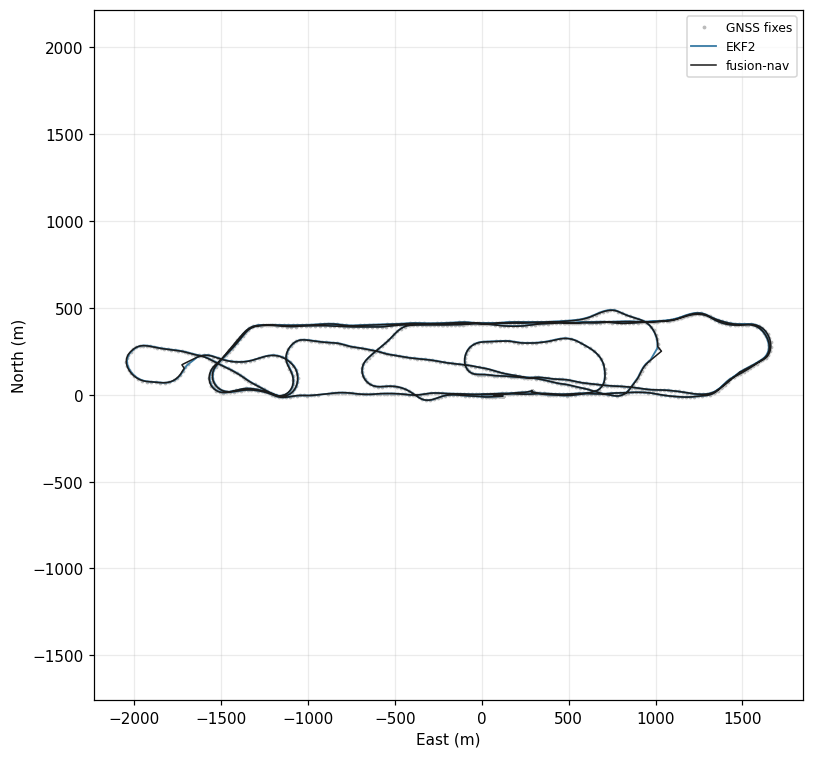
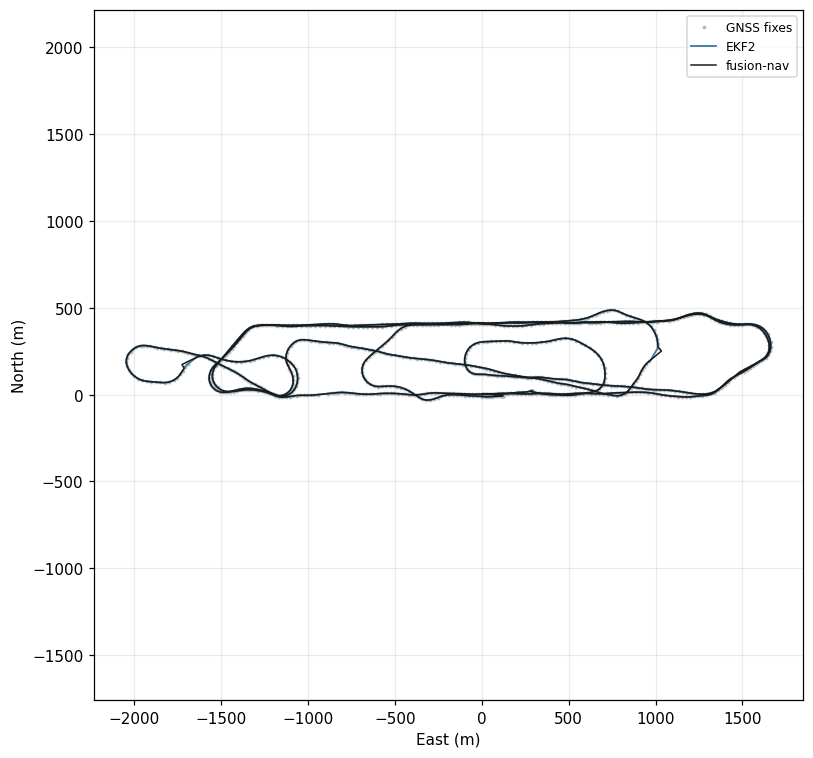
Validation pages: regenerate after EKF2's position is placed in the replay frame (#145)

diff --git a/validation/ekf2.md b/validation/ekf2.md
@@ -2,13 +2,13 @@
 # Agreement with EKF2
 
 **On real flights, does it agree with the estimator PX4 flies?** Mostly, and closely. On the log
-with the most precise receiver (RTK), velocity agrees to 0.04822
-m/s RMS north and tilt to 0.2420° RMS. Where the two differ,
-the log usually shows why: a receiver that overstates its accuracy, a hand launch this filter
-levels wrong, and a barometer the two filters trust differently. One offset has no explanation
-yet, and is marked as open.
+with the most precise receiver (RTK), position agrees to 0.1301 m
+RMS north, velocity to 0.04822 m/s RMS north and tilt to
+0.2420° RMS. Where the two differ, the log usually shows why: a
+receiver that overstates its accuracy, a hand launch this filter levels wrong, and a barometer
+the two filters trust differently.
 
-Generated by `tools/validation.sh` at `ab8cbe7`; every figure on this page is from that build, and `tools/validation.sh --check` re-derives them.
+Generated by `tools/validation.sh` at `ad4a739`; every figure on this page is from that build, and `tools/validation.sh --check` re-derives them.
 
 **EKF2 is not the truth.** Real flight logs carry no true trajectory, so every number here is a
 distance between two estimators fed the same sensor data. It measures agreement, never
@@ -34,39 +34,39 @@ Replayed `raw`:
 
 | run | `pos_n_rms` | `pos_e_rms` | `pos_d_rms` | `vel_n_rms` | `tilt_diff_rms` | `heading_diff_med` | `rej_s_gnss_pos` | `rej_s_gnss_pos_ekf2` |
 |---|---|---|---|---|---|---|---|---|
-| `3949f175/raw` | 0.1022 | 0.1083 | 0.2640 | 0.09179 | 0.5668 | 17.48 | 0.000 | 0.000 |
+| `3949f175/raw` | 0.06005 | 0.06123 | 0.2634 | 0.09179 | 0.5668 | 17.48 | 0.000 | 0.000 |
 | `f16771dd/raw` | none | none | none | 3.998 | 1.531 | 170.1 | none | 0.000 |
-| `a299e722/raw` | 4.756 | 16.71 | 2.453 | 1.003 | 3.341 | 1.026 | 7.002 | 0.000 |
+| `a299e722/raw` | 4.755 | 16.72 | 2.453 | 1.003 | 3.341 | 1.026 | 7.002 | 0.000 |
 | `7592c9b2/raw` | none | none | none | 0.5171 | 0.7510 | 0.4925 | none | 0.000 |
-| `2c42096b/raw` | 0.2964 | 0.2724 | 11.23 | 0.09171 | 0.3656 | 0.5747 | 0.000 | 0.000 |
-| `89a498ce/raw` | 4.665 | 1.753 | 0.6869 | 0.04822 | 0.2420 | 0.7947 | 0.000 | 0.000 |
-| `eb799954/raw` | 0.5670 | 0.7678 | 0.5788 | 0.1184 | 0.5109 | 5.240 | 0.000 | 0.000 |
-| `cd7e0001/raw` | 1.102 | 1.480 | 1.222 | 0.1017 | 0.3300 | 1.606 | 0.000 | 0.000 |
-| `285ee2e7/raw` | 0.4088 | 0.7683 | 1.584 | 0.1196 | 0.5291 | 1.467 | 2.996 | 0.000 |
-| `4b473e91/raw` | 1.111 | 1.805 | 0.6038 | 0.2962 | 0.6155 | 2.771 | 0.000 | 0.000 |
-| `7ce66f0d/raw` | 21.82 | 22.54 | 11.44 | 6.496 | 3.867 | 2.462 | 111.0 | 0.000 |
-| `093e806a/raw` | 1.556 | 1.640 | 0.5769 | 0.1657 | 0.4954 | 1.525 | 268.7 | 304.9 |
+| `2c42096b/raw` | 0.3043 | 0.2724 | 11.23 | 0.09171 | 0.3656 | 0.5747 | 0.000 | 0.000 |
+| `89a498ce/raw` | 0.1301 | 0.09685 | 0.1022 | 0.04822 | 0.2420 | 0.7947 | 0.000 | 0.000 |
+| `eb799954/raw` | 0.2128 | 0.1950 | 0.5784 | 0.1184 | 0.5109 | 5.240 | 0.000 | 0.000 |
+| `cd7e0001/raw` | 1.086 | 0.6992 | 1.218 | 0.1017 | 0.3300 | 1.606 | 0.000 | 0.000 |
+| `285ee2e7/raw` | 0.3774 | 0.7710 | 1.584 | 0.1196 | 0.5291 | 1.467 | 2.996 | 0.000 |
+| `4b473e91/raw` | 0.5283 | 0.6104 | 0.5601 | 0.2962 | 0.6155 | 2.771 | 0.000 | 0.000 |
+| `7ce66f0d/raw` | 21.83 | 22.53 | 4.049 | 6.496 | 3.867 | 2.462 | 111.0 | 0.000 |
+| `093e806a/raw` | 1.275 | 0.9918 | 0.5833 | 0.1657 | 0.4954 | 1.525 | 268.7 | 304.9 |
 
 Replayed `px4`:
 
 | run | `pos_n_rms` | `pos_e_rms` | `pos_d_rms` | `vel_n_rms` | `tilt_diff_rms` | `heading_diff_med` | `rej_s_gnss_pos` | `rej_s_gnss_pos_ekf2` |
 |---|---|---|---|---|---|---|---|---|
-| `3949f175/px4` | 0.1022 | 0.1083 | 0.2680 | 0.09181 | 0.5670 | 17.48 | 0.000 | 0.000 |
+| `3949f175/px4` | 0.06010 | 0.06124 | 0.2675 | 0.09181 | 0.5670 | 17.48 | 0.000 | 0.000 |
 | `f16771dd/px4` | none | none | none | 3.998 | 1.531 | 170.1 | none | 0.000 |
-| `a299e722/px4` | 0.4765 | 0.6620 | 1.266 | 0.3819 | 2.017 | 0.9112 | 0.000 | 0.000 |
+| `a299e722/px4` | 0.4825 | 0.6502 | 1.266 | 0.3819 | 2.017 | 0.9112 | 0.000 | 0.000 |
 | `7592c9b2/px4` | none | none | none | 0.5171 | 0.7510 | 0.4925 | none | 0.000 |
-| `2c42096b/px4` | 0.2948 | 0.2708 | 11.22 | 0.09172 | 0.2708 | 0.4350 | 0.000 | 0.000 |
-| `89a498ce/px4` | 4.655 | 1.757 | 1.056 | 0.04111 | 0.1799 | 0.6354 | 0.000 | 0.000 |
-| `eb799954/px4` | 0.5134 | 0.7159 | 1.063 | 0.1173 | 0.4167 | 5.269 | 0.000 | 0.000 |
-| `cd7e0001/px4` | 0.8681 | 1.380 | 1.152 | 0.09100 | 0.3325 | 1.910 | 0.000 | 0.000 |
-| `285ee2e7/px4` | 0.2446 | 0.3461 | 2.010 | 0.09052 | 0.3675 | 1.211 | 0.000 | 0.000 |
-| `4b473e91/px4` | 1.119 | 1.819 | 0.6861 | 0.2964 | 0.6449 | 3.176 | 0.000 | 0.000 |
-| `7ce66f0d/px4` | 19.84 | 21.94 | 10.86 | 6.043 | 3.193 | 2.196 | 111.0 | 0.000 |
-| `093e806a/px4` | 1.601 | 1.744 | 0.8200 | 0.1452 | 0.4592 | 1.575 | 27.13 | 304.9 |
+| `2c42096b/px4` | 0.3028 | 0.2708 | 11.22 | 0.09172 | 0.2708 | 0.4350 | 0.000 | 0.000 |
+| `89a498ce/px4` | 0.1467 | 0.1092 | 0.7905 | 0.04111 | 0.1799 | 0.6354 | 0.000 | 0.000 |
+| `eb799954/px4` | 0.1308 | 0.1049 | 1.061 | 0.1173 | 0.4167 | 5.269 | 0.000 | 0.000 |
+| `cd7e0001/px4` | 0.8099 | 0.4858 | 1.149 | 0.09100 | 0.3325 | 1.910 | 0.000 | 0.000 |
+| `285ee2e7/px4` | 0.2012 | 0.3446 | 2.013 | 0.09052 | 0.3675 | 1.211 | 0.000 | 0.000 |
+| `4b473e91/px4` | 0.5205 | 0.6034 | 0.6797 | 0.2964 | 0.6449 | 3.176 | 0.000 | 0.000 |
+| `7ce66f0d/px4` | 19.86 | 21.93 | 2.677 | 6.043 | 3.193 | 2.196 | 111.0 | 0.000 |
+| `093e806a/px4` | 1.328 | 1.052 | 0.8267 | 0.1452 | 0.4592 | 1.575 | 27.13 | 304.9 |
 
 Columns, each a difference between EKF2 and this filter:
-- `pos_n_rms`, `pos_e_rms` and `pos_d_rms`: position north, east and down, in metres RMS, after
-  both are put on the same origin.
+- `pos_n_rms`, `pos_e_rms` and `pos_d_rms`: position north, east and down, in metres RMS, with
+  EKF2's position converted into this filter's frame.
 - `vel_n_rms`: velocity north, in m/s RMS.
 - `tilt_diff_rms`: tilt, in degrees RMS.
 - `heading_diff_med`: heading, the median difference in degrees.
@@ -87,8 +87,8 @@ Some rows are explained by the log, not by either filter:
 - `a299e722` has a receiver whose velocities contradict its own positions. Trusting it fully,
   this filter refuses many of its velocities and the two estimates drift apart, until its
   positions are refused too and adopted back. With EKF2's floors they stay together: east
-  position differs by 0.6620 m RMS against
-  16.71 m. It is also the one log with a dual-antenna receiver, whose heading
+  position differs by 0.6502 m RMS against
+  16.72 m. It is also the one log with a dual-antenna receiver, whose heading
   both estimators fuse; their headings differ by a median of
   0.9112°.
 
@@ -98,14 +98,18 @@ with the one where this filter clearly does worse.
 ## The precise receiver: `89a498ce`
 
 A quadrotor mission with an RTK receiver, flying 4069.8 m out at up to
-10.2 m/s. Velocity and attitude agree closely. Position does not,
-in one direction: EKF2 sits 4.665 m RMS north of this filter,
-and north of its own receiver's fixes too, which this filter follows. Nothing found so far
-explains that offset, so it is listed as open rather than blamed on either filter.
+10.2 m/s. The two agree closely on everything: position to
+0.1301 m RMS north and 0.09685 m east,
+both following the same centimetre fixes.
+
+The frames had to be matched first. PX4 measures its local north and east on a sphere, while this
+filter uses the exact tangent plane of the WGS 84 ellipsoid. The two differ by about 0.2 % of the
+distance from the origin, several metres at the far end of this flight. Compared without
+converting between them, EKF2 appeared to sit metres north of its own receiver.
 
 ![track for 89a498ce/raw](figures/89a498ce-raw/track.png)
 
-Estimate, EKF2's own solution where the log carries one, and the raw GNSS fixes the filter was offered. EKF2's track is moved to this filter's origin by the offset its header reports, the shift the agreement statistics make; two corpus logs report no origin, and there it stays at its own. Every track here is sampled at a uniform stride, so each point is a position that was actually held &mdash; the min/max envelope the time series use pairs two columns from different epochs and draws a path nobody travelled.
+Estimate, EKF2's own solution where the log carries one, and the raw GNSS fixes the filter was offered. EKF2's track is in this filter's frame, reprojected from PX4's by the converter, where the reference header says so; two corpus logs report no origin, and there it stays at its own. Every track here is sampled at a uniform stride, so each point is a position that was actually held &mdash; the min/max envelope the time series use pairs two columns from different epochs and draws a path nobody travelled.
 
 ![states_position_ned for 89a498ce/raw](figures/89a498ce-raw/states_position_ned.png)
 
@@ -142,7 +146,7 @@ height together, and trusts GNSS for slow changes. The barometer drifts over the
 the two heights move apart. From the average of the first minute to the average of the last,
 EKF2's height changes by 11.97 m and this filter's by
 -7.316 m (up is positive). With no true height, nothing here says
-which is right. Horizontally the two agree to 0.2964 m RMS north.
+which is right. Horizontally the two agree to 0.3043 m RMS north.
 
 ![states_position_ned for 2c42096b/raw](figures/2c42096b-raw/states_position_ned.png)
 
@@ -154,11 +158,11 @@ A VTOL aircraft that hovers, transitions and cruises 2054.6 m out at
 up to 31.1 m/s. Its log loses the IMU
 8 times, each gap too long to integrate as one step. This filter
 carries its velocity through each gap and accepts the next GNSS fix, and the two tracks stay
-together through the cruise (1.805 m RMS east).
+together through the cruise (0.6104 m RMS east).
 
 ![track for 4b473e91/raw](figures/4b473e91-raw/track.png)
 
-Estimate, EKF2's own solution where the log carries one, and the raw GNSS fixes the filter was offered. EKF2's track is moved to this filter's origin by the offset its header reports, the shift the agreement statistics make; two corpus logs report no origin, and there it stays at its own. Every track here is sampled at a uniform stride, so each point is a position that was actually held &mdash; the min/max envelope the time series use pairs two columns from different epochs and draws a path nobody travelled.
+Estimate, EKF2's own solution where the log carries one, and the raw GNSS fixes the filter was offered. EKF2's track is in this filter's frame, reprojected from PX4's by the converter, where the reference header says so; two corpus logs report no origin, and there it stays at its own. Every track here is sampled at a uniform stride, so each point is a position that was actually held &mdash; the min/max envelope the time series use pairs two columns from different epochs and draws a path nobody travelled.
 
 ## Past the vertical: `285ee2e7`
 
@@ -180,7 +184,7 @@ swings away from EKF2's and from the GNSS fixes, and it resets itself to a fix
 36 times over the flight. After that the positions track each
 other, but the filter reports `Degraded` for most of the flight and ends there
 (Degraded). Over the whole log, position differs from EKF2's by
-22.54 m RMS east and tilt by
+22.53 m RMS east and tilt by
 3.867° RMS, and this filter spends
 111.0 s refusing GNSS positions where EKF2 spends
 0.000 s.

diff --git a/VALIDATION.md b/VALIDATION.md
@@ -8,7 +8,7 @@ where it claims more accuracy than it has, are named below. On real PX4 flights,
 is known exactly, it mostly agrees with EKF2, the estimator PX4 flies, and each place the two
 disagree is shown with its cause, or marked as not yet explained.
 
-Generated by `tools/validation.sh` at `ab8cbe7`; every figure on this page is from that build, and `tools/validation.sh --check` re-derives them.
+Generated by `tools/validation.sh` at `ad4a739`; every figure on this page is from that build, and `tools/validation.sh --check` re-derives them.
 
 ## How to read these pages
 
@@ -60,14 +60,15 @@ Position error, truth minus estimate, on navigation axes, inside the filter's ow
 ## [Agreement with EKF2](validation/ekf2.md): on real flights, does it match PX4?
 
 12 public PX4 flight logs, from quadrotors to fixed-wing and VTOL aircraft.
-On the log with the most precise receiver (RTK), velocity agrees to
+On the log with the most precise receiver (RTK), position agrees to
+0.1301 m RMS north, velocity to
 0.04822 m/s RMS north and tilt to
 0.2420°. The largest disagreement is a hand-launched aircraft
 whose attitude this filter gets wrong at startup, a known gap (#59).
 
 ![track for 89a498ce/raw](validation/figures/89a498ce-raw/track.png)
 
-Estimate, EKF2's own solution where the log carries one, and the raw GNSS fixes the filter was offered. EKF2's track is moved to this filter's origin by the offset its header reports, the shift the agreement statistics make; two corpus logs report no origin, and there it stays at its own. Every track here is sampled at a uniform stride, so each point is a position that was actually held &mdash; the min/max envelope the time series use pairs two columns from different epochs and draws a path nobody travelled.
+Estimate, EKF2's own solution where the log carries one, and the raw GNSS fixes the filter was offered. EKF2's track is in this filter's frame, reprojected from PX4's by the converter, where the reference header says so; two corpus logs report no origin, and there it stays at its own. Every track here is sampled at a uniform stride, so each point is a position that was actually held &mdash; the min/max envelope the time series use pairs two columns from different epochs and draws a path nobody travelled.
 
 ## Where the numbers come from
 

diff --git a/validation/honesty.md b/validation/honesty.md
@@ -7,7 +7,7 @@ true value sat inside the filter's ±3σ band was 1.0000, where 1 is every check
 In `correlated` the filter claims more accuracy than it has, because sensor errors persist longer
 than it assumes. This page shows that, and a fault it used to fail on and no longer does.
 
-Generated by `tools/validation.sh` at `ab8cbe7`; every figure on this page is from that build, and `tools/validation.sh --check` re-derives them.
+Generated by `tools/validation.sh` at `ad4a739`; every figure on this page is from that build, and `tools/validation.sh --check` re-derives them.
 
 ## Why this is its own question
 

diff --git a/validation/robustness.md b/validation/robustness.md
@@ -7,7 +7,7 @@ widens that band or refuses the bad measurements, and its `Status` reports that 
 wrong. GNSS fixes that arrive late are a fault it absorbs rather than reports: each is used at
 the moment it describes.
 
-Generated by `tools/validation.sh` at `ab8cbe7`; every figure on this page is from that build, and `tools/validation.sh --check` re-derives them.
+Generated by `tools/validation.sh` at `ad4a739`; every figure on this page is from that build, and `tools/validation.sh --check` re-derives them.
 
 ## How to read these figures
 

diff --git a/validation/accuracy.md b/validation/accuracy.md
@@ -8,7 +8,7 @@ flight, horizontal position is off by 0.292 m RMS and never by more than
 trajectory, so they show how the filter handles the errors the simulator models, not every
 error a real vehicle has.
 
-Generated by `tools/validation.sh` at `ab8cbe7`; every figure on this page is from that build, and `tools/validation.sh --check` re-derives them.
+Generated by `tools/validation.sh` at `ad4a739`; every figure on this page is from that build, and `tools/validation.sh --check` re-derives them.
 
 ## Where the truth comes from
 
